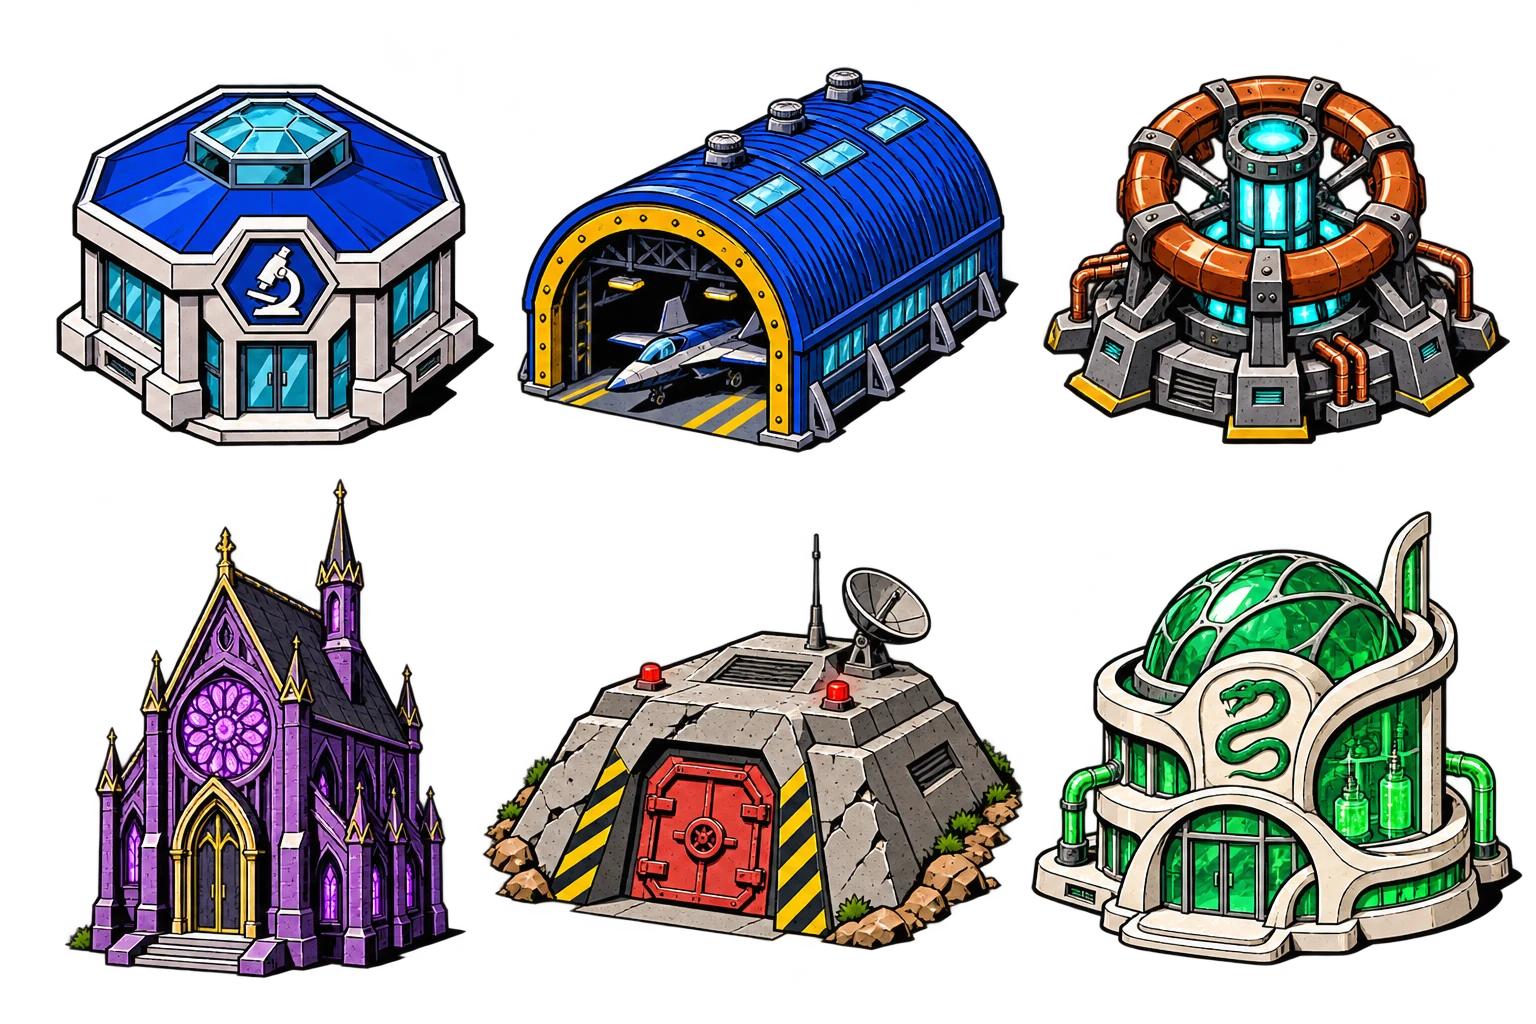
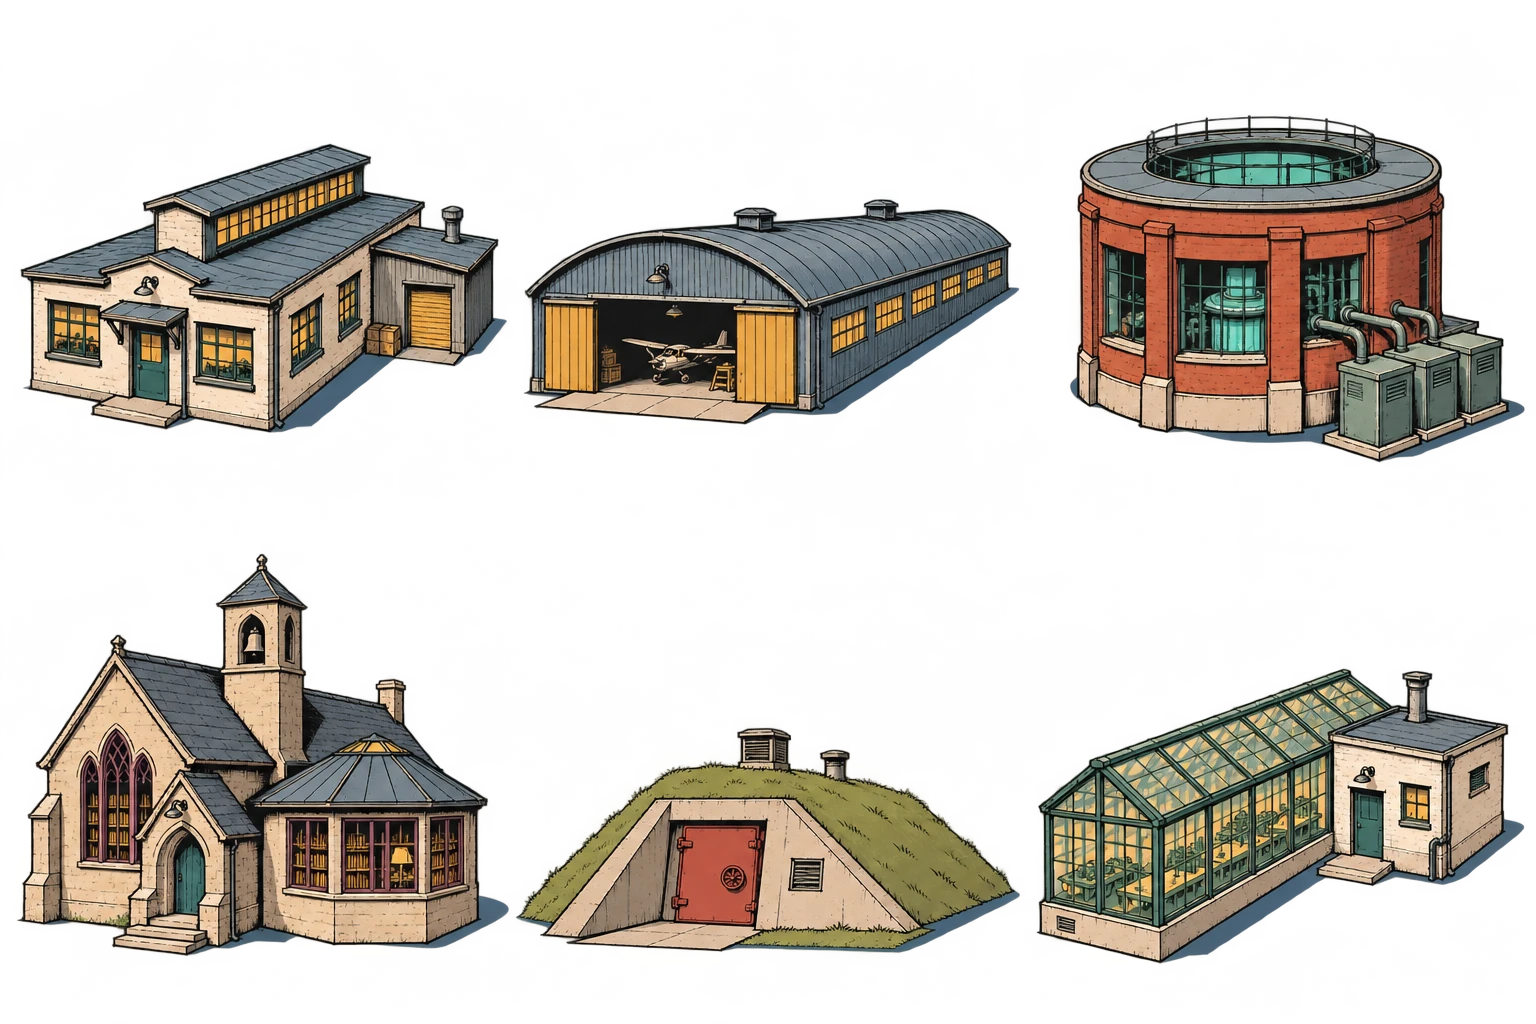
Match headquarters buildings to approved hand-drawn comic concepts

diff --git a/src/hq/construction.js b/src/hq/construction.js
@@ -6,13 +6,13 @@ const HQ_FAC_ART={
 };
 /* Individually authored sites follow the curved waterfront paths; no row/column placement. [x, foot-y, width] */
 const HQ_SITES={
-  skunk:[30,61,12],medbay:[59,54,11],workshop:[15,70,15],comms:[89,39,9],training:[36,87,11],press:[52,91,10],
-  lab:[46,38,9],hangar:[83,77,15],reactor:[73,57,10],sanctum:[67,32,8],bunker:[23,37,9],antivenom:[79,32,8],
-  magnet:[14,92,11],dojo:[41,62,10],bombsq:[68,88,10],optics:[94,61,8],jammer:[92,92,8]
+  skunk:[33,58,13],medbay:[61,52,13],workshop:[16,64,19],comms:[92,28,8.5],training:[35,87,14],press:[52,85,8.5],
+  lab:[46,37,11],hangar:[84,71,17],reactor:[73,54,8.5],sanctum:[65,30,10],bunker:[25,38,11],antivenom:[80,31,13],
+  magnet:[14,83,14],dojo:[43,65,12],bombsq:[67,86,10.5],optics:[94,50,7],jammer:[64,71,13]
 };
 function hqFacilityArt(k,cls=''){
   const a=HQ_FAC_ART[k];if(!a)return '';
-  return `<span class="hq-fac-art ${cls}" aria-hidden="true" style="background-image:url('assets/headquarters/facilities-${a[0]}.webp');--ax:${a[1]%3*50}%;--ay:${Math.floor(a[1]/3)*100}%"></span>`;
+  return `<span class="hq-fac-art ${cls}" aria-hidden="true" style="background-image:url('assets/headquarters/facilities-${a[0]}.webp?v=drawn-1');--ax:${a[1]%3*50}%;--ay:${Math.floor(a[1]/3)*100}%"></span>`;
 }
 function hqGrounds(selected){
   const keys=Object.keys(HQ_FAC_ART);

diff --git a/css/headquarters.css b/css/headquarters.css
@@ -4,7 +4,7 @@
 #app .hq-grounds-title h2{font:1.35rem Bangers,cursive;margin:0;letter-spacing:.04em}
 #app .hq-grounds-title>span{font-weight:800;font-size:.8rem}
 #app .hq-grounds-scroll{overflow-x:auto;height:clamp(210px,31vh,340px);scrollbar-color:#d4503e #ecd398;overscroll-behavior-x:contain}
-#app .hq-grounds-stage{position:relative;min-width:1000px;width:100%;height:100%;background:url('../assets/headquarters/grounds.webp') center/100% 100% no-repeat;isolation:isolate}
+#app .hq-grounds-stage{position:relative;min-width:1000px;width:100%;height:100%;background:url('../assets/headquarters/grounds.webp?v=drawn-1') center/100% 100% no-repeat;isolation:isolate}
 #app .hq-fac-art{display:block;aspect-ratio:1;background-size:300% 200%;background-position:var(--ax) var(--ay);background-repeat:no-repeat;pointer-events:none}
 #app .hq-plot{position:absolute;left:var(--px);top:var(--py);width:var(--pw);aspect-ratio:1;transform:translate(-50%,-88%);border:0;padding:0;background:none;box-shadow:none;cursor:pointer;color:#142638}
 #app .hq-plot.is-preview .hq-fac-art{opacity:.6;filter:sepia(1) saturate(4) drop-shadow(0 0 2px #ffb800)}

diff --git a/index.html b/index.html
@@ -38,7 +38,7 @@
 <script src="src/ui/tooltips.js"></script>
 <script src="src/ui/playbook.js"></script>
 <script src="src/hq/workshop.js"></script>
-<script src="src/hq/construction.js?v=harbor-1"></script>
+<script src="src/hq/construction.js?v=drawn-1"></script>
 <script src="src/ui/cheats.js"></script>
 <script src="src/tutorial/script.js"></script>
 <script src="src/tutorial/tutorial.js"></script>
@@ -86,7 +86,7 @@
 <link rel="stylesheet" href="css/isometric.css">
 <link rel="stylesheet" href="css/heroic-ui.css?v=bright-comic-4">
 <script src="src/art/isometric.js"></script>
-<link rel="stylesheet" href="css/headquarters.css?v=harbor-1">
+<link rel="stylesheet" href="css/headquarters.css?v=drawn-1">
 <script>
 if(!load())newCampaign();
 render();

diff --git a/docs/headquarters.md b/docs/headquarters.md
@@ -2,10 +2,10 @@
 
 Open **Build HQ** beside Operations and Roster. The grounds occupy about one third of the viewport below the banners. Small screens pan the grounds horizontally; facility choices and the selected artwork stack below.
 
-All 17 existing FAC keys have generated cel-shaded sprites, mapped in `src/hq/construction.js`. `HQ_SITES` supplies individual positions and sizes along the organic campus backdrop. Facilities appear from the existing `S.facilities` save field; selecting an unbuilt facility previews its proposed location. Build costs, blueprints, and effects still come from FAC. The old operations page links here, including the beginner guide.
+All 17 existing FAC keys have generated ink-drawn sprites, mapped in `src/hq/construction.js`. `HQ_SITES` supplies individual positions and sizes along the organic campus backdrop. Facilities appear from the existing `S.facilities` save field; selecting an unbuilt facility previews its proposed location. Build costs, blueprints, and effects still come from FAC. The old operations page links here, including the beginner guide.
 
 The shared masthead uses the lighthouse BLACKHARBOR artwork from concept A; resource chips and campaign information remain live text. Combat keeps its compact header.
 
-Art direction: thick black contour ink, two-value hard cel shadows, bright flat superhero colors, angular highlights, and varied architectural silhouettes. Grounds: an irregular waterfront peninsula, winding paths, retaining walls, greenery, and open clearings, with no regular grid. Building sprites use the combat heroes as the style reference. Generated atlas files retain transparency and are compressed to WebP. The unused sixth sprite in the final atlas is decorative and has no gameplay effect.
+Art direction: the approved workshop, L-shaped clinic, and slender mast concept sheet. Expressive variable-weight brush lines, economical structural detail, flat brick/ivory/teal/ochre colors, and one clearly bounded shadow tone. Believable working structures have distinct ground plans and silhouettes: sprawling low sheds, narrow towers, courtyards, hooked wings, service arrays, and utility yards. Grounds: an irregular waterfront peninsula, winding paths, retaining walls, greenery, and open clearings, with no regular grid. The approved architecture sheet is the visual reference for both the facilities and the grounds. Sprite positions and widths are authored individually, including moving the interference station inland. Generated atlas files retain transparency and are compressed to WebP. The final atlas contains five facility sprites and one empty cell.
 
 Validation: `node tests/headquarters.cjs`, `node tests/comic-ui.cjs`, `node tests/investigation-ui.cjs`, `node tests/story.cjs`; browser checks cover selecting, paying for construction, built sprites, all-facility visibility, reload persistence, and a 390px viewport.
